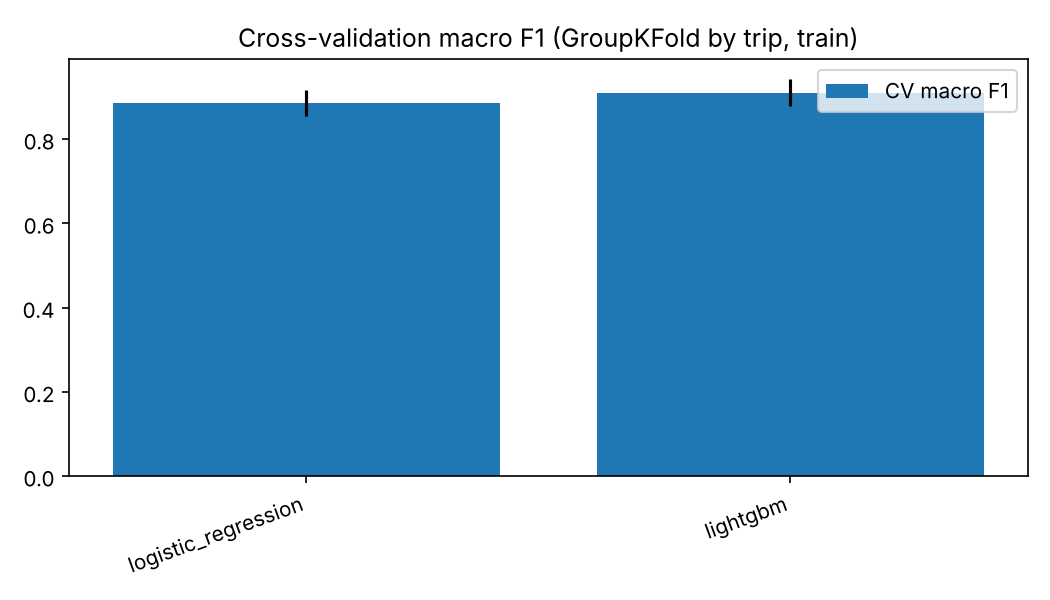
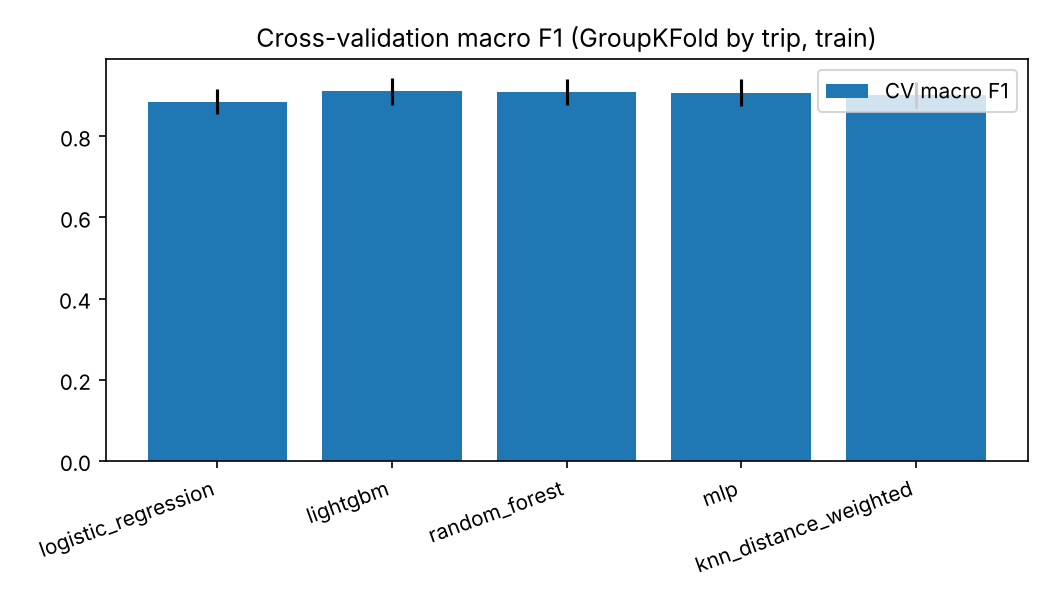
Add random forest, MLP, KNN; train all five models
Claude-Session: https://claude.ai/code/session_01Pd7VVu9xxbGe1EA9C9PydD

diff --git a/pathsnap/models.py b/pathsnap/models.py
@@ -7,7 +7,10 @@ The task for every model: given one (GPS point, candidate arc) row of features,
 output P(this candidate is the arc the car was really on).
 """
 from lightgbm import LGBMClassifier
+from sklearn.ensemble import RandomForestClassifier
 from sklearn.linear_model import LogisticRegression
+from sklearn.neighbors import KNeighborsClassifier
+from sklearn.neural_network import MLPClassifier
 from sklearn.pipeline import Pipeline
 from sklearn.preprocessing import StandardScaler
 
@@ -44,13 +47,75 @@ def lightgbm(n_estimators=400, learning_rate=0.05, num_leaves=31, min_child_samp
     )
 
 
-def get_models():
-    """Dict of name -> (algorithm family, untrained estimator).
+def random_forest(n_estimators=150, max_depth=14, min_samples_leaf=20, max_features="sqrt",
+                  max_samples=0.5):
+    """Random Forest: many deep-ish trees on random row/feature subsets, probabilities averaged.
 
-    Milestone 1: Logistic Regression + LightGBM. Then Random Forest, MLP and
-    distance-weighted KNN are added here.
+    The bagging (Ensemble) counterpart to LightGBM's boosting. Depth, leaf size and
+    max_samples are limited so 150 trees fit in laptop RAM and cannot memorise single
+    trips; n_jobs=-1 uses all cores.
     """
+    return RandomForestClassifier(
+        n_estimators=n_estimators, max_depth=max_depth, min_samples_leaf=min_samples_leaf,
+        max_features=max_features, max_samples=max_samples, n_jobs=-1, random_state=SEED)
+
+
+def mlp(hidden_layer_sizes=(64, 32), alpha=1e-4, learning_rate_init=1e-3):
+    """Small neural network (multi-layer perceptron) on standardised features.
+
+    Neural-network family. early_stopping holds out 10% of the training rows and stops
+    when that score stops improving, so loss_curve_ / validation_scores_ are real
+    per-epoch histories (the only NN curve we plot). Note the inner hold-out is random
+    rows, used only to choose the stopping epoch; the outer CV split is still by trip.
+    """
+    return Pipeline([
+        ("scale", StandardScaler()),
+        ("clf", MLPClassifier(hidden_layer_sizes=hidden_layer_sizes, alpha=alpha,
+                              learning_rate_init=learning_rate_init, batch_size=512,
+                              max_iter=60, early_stopping=True, validation_fraction=0.1,
+                              n_iter_no_change=5, random_state=SEED)),
+    ])
+
+
+def knn_distance_weighted(n_neighbors=25):
+    """K-nearest-neighbours in scaled feature space, closer neighbours vote more.
+
+    Instance-based family: no training, just memory, so prediction is slow. It is trained
+    on a fixed point-level subsample (see TRAIN_SUBSAMPLE) to keep fit/predict affordable.
+    """
+    return Pipeline([
+        ("scale", StandardScaler()),
+        ("clf", KNeighborsClassifier(n_neighbors=n_neighbors, weights="distance", n_jobs=-1)),
+    ])
+
+
+# Models that train on a fixed random subsample of GPS *points* (all candidate rows of a
+# chosen point are kept together) so the run stays affordable. Value = max training points
+# per fit. Chosen by compute budget, not by looking at results. Validation is never sampled.
+TRAIN_SUBSAMPLE = {"knn_distance_weighted": 40_000, "mlp": 100_000}
+
+
+def get_models():
+    """Dict of name -> (algorithm family, untrained estimator): the 5 compared models."""
     return {
         "logistic_regression": ("Linear / probabilistic", logistic_regression()),
+        "random_forest": ("Ensemble (bagging)", random_forest()),
         "lightgbm": ("Boosting", lightgbm()),
+        "mlp": ("Neural network", mlp()),
+        "knn_distance_weighted": ("Instance-based", knn_distance_weighted()),
     }
+
+
+FACTORIES = {
+    "logistic_regression": logistic_regression, "random_forest": random_forest,
+    "lightgbm": lightgbm, "mlp": mlp, "knn_distance_weighted": knn_distance_weighted,
+}
+
+
+def build(name, params=None):
+    """Untrained estimator `name` with hyperparameters `params` (dict, e.g. Optuna's best).
+
+    Used by bayes_opt.py (every trial), export_model.py and train_models.py --final so the
+    tuned model is rebuilt from the saved JSON rather than copied by hand.
+    """
+    return FACTORIES[name](**(params or {}))

diff --git a/scripts/train_models.py b/scripts/train_models.py
@@ -51,7 +51,14 @@ def proba(est, X):
     return est.predict_proba(X)[:, 1]
 
 
-def key_config(est):
+def key_config(est, name=None):
+    """Short hyperparameter string for the comparison table (plus subsample note if any)."""
+    sub = models.TRAIN_SUBSAMPLE.get(name)
+    base = _key_config(est)
+    return base + (f"; trained on fixed subsample of {sub:,} GPS points per fit" if sub else "")
+
+
+def _key_config(est):
     last = est[-1] if hasattr(est, "steps") else est
     p = last.get_params()
     return "; ".join(f"{k}={p[k]}" for k in KEY_PARAMS if k in p)
@@ -97,10 +104,28 @@ def loss_history(m):
     return None
 
 
+def subsample_points(df, idx, max_points, seed=SEED):
+    """Row indices of a fixed random subsample of GPS points (all candidates of a point kept).
+
+    Used only for slow models (models.TRAIN_SUBSAMPLE). idx: row positions of the training
+    fold. Returns idx unchanged if the fold has <= max_points points.
+    """
+    sub = df.loc[idx, ["trip_id", "point_idx"]]
+    pid = pd.factorize(pd.MultiIndex.from_frame(sub))[0]
+    n_pts = pid.max() + 1
+    if n_pts <= max_points:
+        return idx
+    keep = np.random.default_rng(seed).choice(n_pts, size=max_points, replace=False)
+    return idx[np.isin(pid, keep)]
+
+
 def cross_validate(name, est, df, cols, arcs_cache):
     rows, oof = [], np.zeros(len(df))
     hist = None
+    max_pts = models.TRAIN_SUBSAMPLE.get(name)
     for fold, (tr, va) in enumerate(GroupKFold(n_splits=N_SPLITS).split(df, groups=df["trip_id"])):
+        if max_pts:  # slow model: fit and report train metrics on the fixed point subsample
+            tr = subsample_points(df, tr, max_pts)
         Xtr, ytr = df.loc[tr, cols], df.loc[tr, "label"]
         Xva, yva = df.loc[va, cols], df.loc[va, "label"]
         t0 = time.perf_counter()
@@ -217,7 +242,7 @@ def develop(names, zoo, cols):
         family, est = zoo[name]
         print(f"[{name}] GroupKFold({N_SPLITS}) on train ...", flush=True)
         cv, oof, summ, hist = cross_validate(name, est, train, cols, arcs_cache)
-        summ = {"model": name, "algorithm_family": family, "key_config": key_config(est),
+        summ = {"model": name, "algorithm_family": family, "key_config": key_config(est, name),
                 **{k: v for k, v in summ.items() if k != "model"},
                 "n_train_rows": len(train), "seed": SEED}
         print({k: (round(v, 4) if isinstance(v, float) else v) for k, v in summ.items()})
@@ -250,7 +275,11 @@ def final(names, zoo, cols, extra=None):
     rows, arcs_cache = [], {}
     for name, family, est in items:
         t0 = time.perf_counter()
-        m = fit(est, train[cols], train["label"])
+        tr_full = train
+        if name in models.TRAIN_SUBSAMPLE:
+            tr_full = train.loc[subsample_points(train, np.arange(len(train)),
+                                                 models.TRAIN_SUBSAMPLE[name])]
+        m = fit(est, tr_full[cols], tr_full["label"])
         train_s = time.perf_counter() - t0
         t0 = time.perf_counter()
         p = proba(m, test[cols])
@@ -286,7 +315,13 @@ def main(argv=None):
     names = args.models or list(zoo)
     OUT.mkdir(parents=True, exist_ok=True)
     if args.final:
-        final(names, zoo, cols)
+        extra = []
+        best = OUT / "best_params.json"  # written by bayes_opt.py; scores the tuned model too
+        if best.exists():
+            import json
+            b = json.loads(best.read_text())
+            extra.append((f"{b['model']}_tuned", zoo[b["model"]][0], models.build(b["model"], b["params"])))
+        final(names, zoo, cols, extra)
     else:
         develop(names, zoo, cols)
 

diff --git a/scripts/export_model.py b/scripts/export_model.py
@@ -1,18 +1,61 @@
-"""Refit the tuned model on all train data and save the bundle. OWNER: Kushal.
+"""Refit the tuned model on all train trips and export the model bundle. OWNER: Kushal.
 
-Run from the repo root:  python scripts/export_model.py
-Writes artifacts/model.joblib in the format from docs/CONTRACTS.md.
+Run from the repo root (after scripts/bayes_opt.py):
+    python scripts/export_model.py
+
+Reads results/models/best_params.json, rebuilds the estimator with models.build, fits it
+on all 80 train trips (labelled rows), and writes artifacts/model.joblib, the dict that
+Sanjay's pipeline.predict_trip and the API load (docs/CONTRACTS.md section 2):
+    {model, feature_columns, name, params, trained_on, hmm_params}
+hmm_params comes from results/pipeline/hmm_params.json if it exists, else None.
+Then reloads the file and checks it gives identical probabilities (guards against a
+broken or stale artifact). student_test is not touched.
 """
+import json
 import sys
 from pathlib import Path
 
-sys.path.insert(0, str(Path(__file__).resolve().parent.parent))
+import joblib
+import numpy as np
+import pandas as pd
 
-from pathsnap.config import ARTIFACTS_DIR, PROCESSED_DIR, RESULTS_DIR, SEED  # noqa: E402
+sys.path.insert(0, str(Path(__file__).resolve().parent.parent))
+sys.path.insert(0, str(Path(__file__).resolve().parent))
+
+import train_models as tm  # noqa: E402
+from pathsnap import features, models  # noqa: E402
+from pathsnap.config import ARTIFACTS_DIR, PROCESSED_DIR, RESULTS_DIR  # noqa: E402
 
 
 def main():
-    raise NotImplementedError("TODO(Kushal)")
+    """Fit on all train rows, dump the bundle, verify the reload."""
+    best = json.loads((tm.OUT / "best_params.json").read_text())
+    name, params = best["model"], best["params"]
+    cols = list(features.FEATURE_COLUMNS)
+    train = tm.labelled(pd.read_parquet(PROCESSED_DIR / "train.parquet"))
+    sub = models.TRAIN_SUBSAMPLE.get(name)
+    if sub:
+        train = train.loc[tm.subsample_points(train, np.arange(len(train)), sub)]
+    est = tm.fit(models.build(name, params), train[cols], train["label"])
+
+    hp_path = RESULTS_DIR / "pipeline" / "hmm_params.json"
+    hmm_params = json.loads(hp_path.read_text()) if hp_path.exists() else None
+    bundle = {
+        "model": est, "feature_columns": cols, "name": f"{name}_tuned", "params": params,
+        "trained_on": f"train ({train.trip_id.nunique()} trips, {len(train):,} labelled rows)",
+        "hmm_params": hmm_params,
+    }
+    ARTIFACTS_DIR.mkdir(exist_ok=True)
+    out = ARTIFACTS_DIR / "model.joblib"
+    joblib.dump(bundle, out, compress=3)
+
+    back = joblib.load(out)
+    sample = train[cols].iloc[:20000]
+    same = np.array_equal(bundle["model"].predict_proba(sample)[:, 1],
+                          back["model"].predict_proba(sample)[:, 1])
+    assert same and back["feature_columns"] == cols, "reloaded model differs"
+    print(f"Wrote {out} ({out.stat().st_size / 1e6:.1f} MB); reload gives identical "
+          f"probabilities on {len(sample):,} rows; hmm_params={'set' if hmm_params else None}")
 
 
 if __name__ == "__main__":
